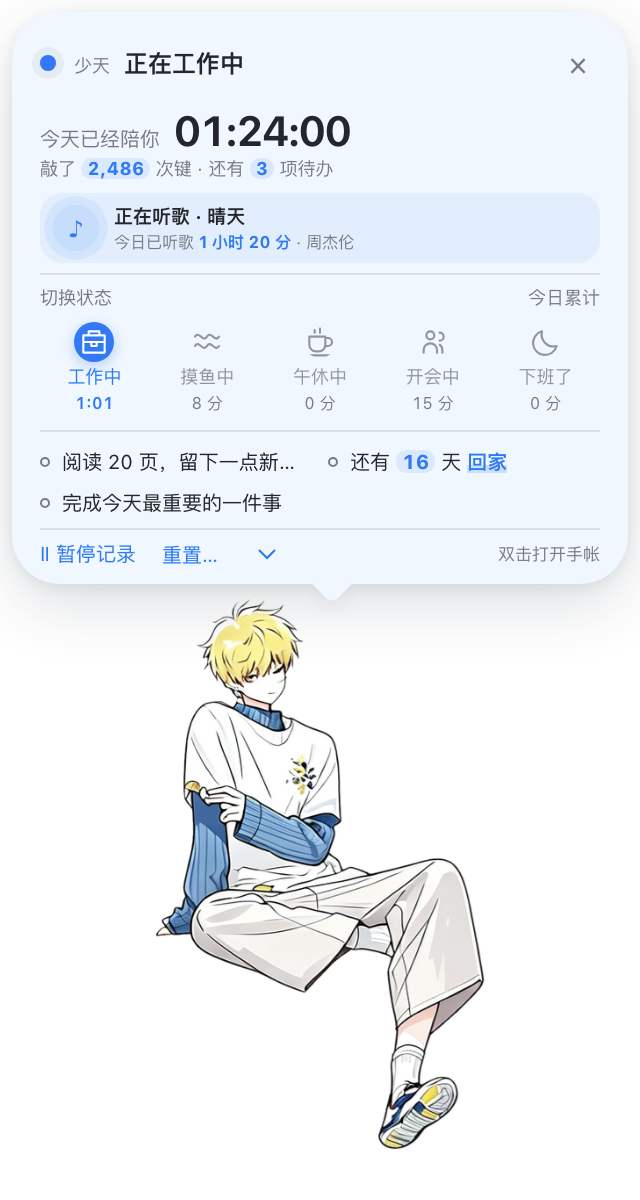
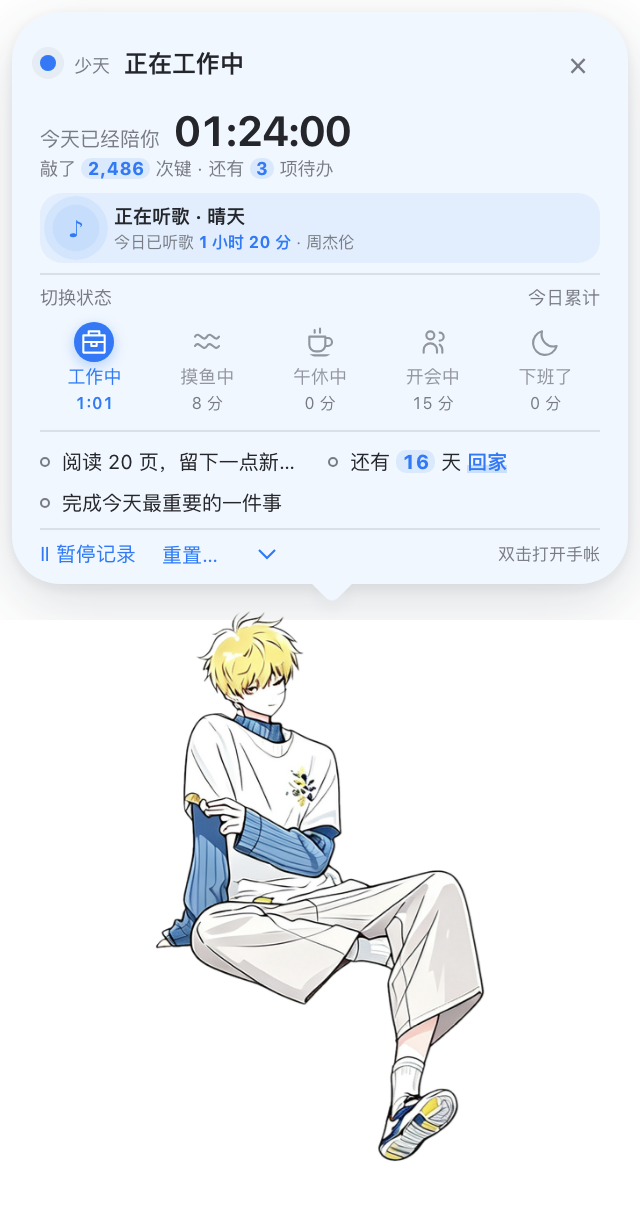
Remove the unused in-window bubble; README hero composed from the real status window

diff --git a/src/main/windows.ts b/src/main/windows.ts
@@ -31,31 +31,14 @@ function scaledSize(scale: number): { width: number; height: number } {
   return { width: Math.round(PET_SIZE.width * scale), height: Math.round(PET_SIZE.height * scale) }
 }
 
-export interface CatLayout {
-  bubbleOpen: boolean
-  petWidth: number
-  petHeight: number
-  petLeft: number
-  petTop: number
-  bubbleLeft: number
-  bubbleTop: number
-  bubbleBelow: boolean
-  tipLeft: number
-  bubbleScale: number
-}
-const catLayouts = new WeakMap<BrowserWindow, CatLayout>()
 type PetVisualBounds={x:number;y:number;width:number;height:number;anchorX:number;anchorY:number}
 const catVisualBounds=new WeakMap<BrowserWindow,PetVisualBounds>()
 export function pointInsideBounds(point:{x:number;y:number},bounds:Electron.Rectangle):boolean{
   return point.x>=bounds.x&&point.x<bounds.x+bounds.width&&point.y>=bounds.y&&point.y<bounds.y+bounds.height
 }
-export function getCatLayout(win: BrowserWindow): CatLayout {
-  return catLayouts.get(win) ?? { bubbleOpen: false, petWidth: win.getBounds().width, petHeight: win.getBounds().height, petLeft: 0, petTop: 0, bubbleLeft: 0, bubbleTop: 0, bubbleBelow: false, tipLeft: 160, bubbleScale: 1 }
-}
+/** The cat window is exactly the pet (the status bubble is its own window). */
 export function getPetBounds(win: BrowserWindow): Electron.Rectangle {
-  const bounds = win.getBounds()
-  const layout = getCatLayout(win)
-  return { x: bounds.x + layout.petLeft, y: bounds.y + layout.petTop, width: layout.petWidth, height: layout.petHeight }
+  return win.getBounds()
 }
 export function setPetVisualBounds(win:BrowserWindow,bounds:{x:number;y:number;width:number;height:number;anchorX?:number;anchorY?:number}):void{
   const pet=getPetBounds(win)
@@ -73,40 +56,6 @@ export function getPetSpeechAnchor(win:BrowserWindow):{x:number;y:number}{
   const pet=getPetBounds(win),visible=catVisualBounds.get(win)
   return visible?{x:pet.x+visible.anchorX,y:pet.y+visible.anchorY}:{x:pet.x+pet.width/2,y:pet.y}
 }
-/** The bubble is part of the pet's transparent window, not a separate popup. */
-export function setCatBubble(win: BrowserWindow, bubbleOpen: boolean, pet = getPetBounds(win)): void {
-  const area = screen.getDisplayMatching(pet).workArea
-  const { singleScale, panelFontScale } = getPanelPreferences()
-  const bubbleWidth = Math.ceil(320 * singleScale)
-  const bubbleHeight = Math.ceil(bubbleBaseHeight(panelFontScale) * singleScale)
-  const bubbleBelow = bubbleOpen && pet.y - bubbleHeight < area.y
-  const bubbleX = Math.max(area.x, Math.min(pet.x + (pet.width - bubbleWidth) / 2, area.x + area.width - bubbleWidth))
-  const bubbleY = bubbleBelow ? pet.y + pet.height : pet.y - bubbleHeight
-  // Union of the fixed pet rectangle and the independently positioned bubble.
-  // Clamping the union would move the pet whenever the bubble meets a screen edge.
-  const x = bubbleOpen ? Math.min(pet.x, bubbleX) : pet.x
-  const y = bubbleOpen ? Math.min(pet.y, bubbleY) : pet.y
-  const width = bubbleOpen ? Math.max(pet.x + pet.width, bubbleX + bubbleWidth) - x : pet.width
-  const height = bubbleOpen ? Math.max(pet.y + pet.height, bubbleY + bubbleHeight) - y : pet.height
-  const layout: CatLayout = {
-    bubbleOpen, petWidth: pet.width, petHeight: pet.height,
-    petLeft: pet.x - x, petTop: pet.y - y,
-    bubbleLeft: bubbleX - x, bubbleTop: bubbleY - y, bubbleBelow,
-    bubbleScale: singleScale,
-    tipLeft: Math.max(24, Math.min(296, (pet.x + pet.width / 2 - bubbleX) / singleScale))
-  }
-  catLayouts.set(win, layout)
-  win.setBounds({ x: Math.round(x), y: Math.round(y), width: Math.ceil(width), height: Math.ceil(height) }, false)
-  // Native window managers can adjust requested bounds; derive offsets from the
-  // actual result so the pet remains at its original desktop coordinates.
-  const actual = win.getBounds()
-  layout.petLeft = pet.x - actual.x
-  layout.petTop = pet.y - actual.y
-  layout.bubbleLeft = bubbleX - actual.x
-  layout.bubbleTop = bubbleY - actual.y
-  win.webContents.send('cat:layout', layout)
-}
-
 export function createCatWindow(scale: number): BrowserWindow {
   const size = scaledSize(scale)
 
@@ -224,8 +173,7 @@ export function positionStatusWindow(win: BrowserWindow, parent: BrowserWindow):
 export function applyCatWindowLayout(catWindow: BrowserWindow, scale: number): void {
   const size = scaledSize(scale)
   const current = getPetBounds(catWindow)
-  const pet = { x: current.x + current.width - size.width, y: current.y + current.height - size.height, ...size }
-  setCatBubble(catWindow, getCatLayout(catWindow).bubbleOpen, pet)
+  catWindow.setBounds({ x: Math.round(current.x + current.width - size.width), y: Math.round(current.y + current.height - size.height), ...size }, false)
 }
 
 function loadRendererRoute(win: BrowserWindow, hash: string): void {

diff --git a/src/renderer/src/CatView.tsx b/src/renderer/src/CatView.tsx
@@ -1,6 +1,5 @@
-import StatusPanel from './StatusPanel'
-import { useEffect, useRef, useState, type CSSProperties } from 'react'
-import type { WorkState, SpriteMap, CatLayout } from '../../preload'
+import { useEffect, useRef, useState } from 'react'
+import type { WorkState, SpriteMap } from '../../preload'
 
 const DEFAULT_IMAGES = Object.fromEntries(['idle', 'sleep'].map(k => [k, `./cat/${k}.svg`]))
 type AlphaMap={width:number;height:number;alpha:Uint8ClampedArray;minX:number;minY:number;maxX:number;maxY:number;topX:number}
@@ -22,7 +21,6 @@ function opaqueAt(img:HTMLImageElement,x:number,y:number):boolean{const box=imag
 
 export default function CatView(): React.JSX.Element {
   const [dragging, setDragging] = useState(false)
-  const [layout, setLayout] = useState<CatLayout | null>(null)
   const [sprites, setSprites] = useState<SpriteMap>({})
   // Unknown during a renderer wake/reload: never flash the focus pose before
   // the persisted selection arrives from the main process.
@@ -34,20 +32,20 @@ export default function CatView(): React.JSX.Element {
   const reportCatShape=()=>{const img=catRef.current,stage=stageRef.current;if(!img||!stage||!img.complete)return;const map=alphaMaps.get(img)??readAlpha(img);if(!map)return;const box=imageContentBox(img),root=stage.getBoundingClientRect(),localLeft=box.left-root.left,localTop=box.top-root.top;window.api.setCatVisualBounds({x:localLeft+map.minX/map.width*box.width,y:localTop+map.minY/map.height*box.height,width:(map.maxX-map.minX+1)/map.width*box.width,height:(map.maxY-map.minY+1)/map.height*box.height,anchorX:localLeft+map.topX/map.width*box.width,anchorY:localTop+map.minY/map.height*box.height})}
 
   useEffect(() => {
-    window.api.getCatLayout().then(setLayout)
     window.api.getSprites().then(setSprites)
     window.api.getWorkState().then(s => setState(s.state))
-    const off = [window.api.onCatLayout(setLayout), window.api.onSpritesUpdated(setSprites), window.api.onWorkStateUpdated(setState)]
+    const off = [window.api.onSpritesUpdated(setSprites), window.api.onWorkStateUpdated(setState)]
     return () => { off.forEach(f => f()); clearTimeout(clickTimer.current) }
   }, [])
-  useEffect(()=>{const frame=requestAnimationFrame(reportCatShape);return()=>cancelAnimationFrame(frame)},[layout?.petWidth,layout?.petHeight,state,sprites])
+  useEffect(()=>{const frame=requestAnimationFrame(reportCatShape);return()=>cancelAnimationFrame(frame)},[state,sprites])
+  // Pet scale changes resize the window: re-measure the visible outline.
+  useEffect(()=>{const onResize=()=>requestAnimationFrame(reportCatShape);window.addEventListener('resize',onResize);return()=>window.removeEventListener('resize',onResize)},[])
   // A state's own image wins; otherwise every state follows the focus (idle)
   // image. With no custom images at all, non-focus states show the sleeping cat.
   const petImage = (current: WorkState | null): string => (current && sprites[`state-${current}`]) ||
     sprites.idle || (current === 'focus' ? DEFAULT_IMAGES.idle : DEFAULT_IMAGES.sleep)
-  return <>
-    {layout?.bubbleOpen && <div className={`pet-bubble-anchor${layout.bubbleBelow ? ' pet-bubble-anchor--below' : ''}`} style={{ left: layout.bubbleLeft, top: layout.bubbleTop ?? 0, transform: `scale(${layout.bubbleScale ?? 1})`, transformOrigin: 'top left', '--bubble-tip-left': `${layout.tipLeft ?? 160}px` } as CSSProperties}><StatusPanel /></div>}
-    <div ref={stageRef} style={layout ? { position: 'absolute', left: layout.petLeft, top: layout.petTop, width: layout.petWidth, height: layout.petHeight } : undefined} className={`scene-stage${dragging ? ' scene-stage--dragging' : ''}`}
+  return (
+    <div ref={stageRef} className={`scene-stage${dragging ? ' scene-stage--dragging' : ''}`}
     title="左右键单击查看状态 · 左键双击打开手帐 · 拖动移动"
     onContextMenu={e => e.preventDefault()}
     onPointerDown={e => {
@@ -85,5 +83,6 @@ export default function CatView(): React.JSX.Element {
       }, 320)
     }}>
     <img ref={catRef} className="cat-sprite" src={petImage(state)} decoding="sync" draggable={false} alt="桌宠" onLoad={e=>{readAlpha(e.currentTarget);requestAnimationFrame(reportCatShape)}} />
-  </div></>
+  </div>
+  )
 }

diff --git a/src/renderer/src/styles.css b/src/renderer/src/styles.css
@@ -1107,7 +1107,7 @@ h1,h2,h3,p {
   flex-shrink:0;
 }
 /* A small speech bubble within the pet window; the tip points at its head. */
-.pet-bubble-anchor { position:absolute; top:0; width:320px; height:306px; padding:6px 6px 14px; }
+
 .pet-bubble-window { width:320px; height:var(--bubble-height, 306px); padding:6px 6px 14px; transform:scale(var(--panel-scale,1)); transform-origin:top left; }
 .pet-bubble-window--below { padding-top:14px; padding-bottom:6px; }
 .pet-bubble-window--below .pet-bubble::after { top:-7px; bottom:auto; transform:rotate(225deg); }
@@ -1147,12 +1147,6 @@ h1,h2,h3,p {
   .pet-bubble::after { background:#27292e; border-color:#ffffff19; }
 }
 
-.pet-bubble-anchor--below { padding-top:14px; padding-bottom:6px; }
-.pet-bubble-anchor--below .pet-bubble::after {
-  top:-7px;
-  bottom:auto;
-  transform:rotate(225deg);
-}
 /* Reminders: colored lists, calendar navigation and dated agenda. */
 .reminders-view { flex:1; min-height:0; overflow-y:auto; padding:16px 20px 22px; }
 .reminders-heading { display:flex; align-items:center; justify-content:space-between; margin-bottom:12px; }
@@ -1203,7 +1197,7 @@ h1,h2,h3,p {
 .list-palette,.list-icons { display:flex; gap:8px; margin-top:10px; }.list-palette button { width:23px; height:23px; border:0; border-radius:50%; color:#fff; padding:0; }.list-icons button { flex:1; min-width:0; border:1px solid var(--line); border-radius:6px; padding:5px 0; background:transparent; color:var(--secondary); }.list-icons button[aria-pressed=true] { color:var(--blue); border-color:var(--blue); }
 
 .cat-sprite { opacity:var(--pet-opacity,1); }
-.pet-bubble-anchor { opacity:var(--panel-opacity,1); }
+
 .settings-section { font-size:11px; color:var(--secondary); margin:0; font-weight:500; }
 .window-settings-panel { gap:13px; }
 .window-settings-panel > * { flex-shrink:0; }

diff --git a/src/preload/index.ts b/src/preload/index.ts
@@ -53,18 +53,6 @@ export interface DiaryEntry {
 export interface UserSpriteItem { id:string;name:string;tags:string[];url:string }
 
 export type ThemeMode = 'system' | 'light' | 'dark'
-export interface CatLayout {
-  bubbleOpen: boolean
-  petWidth: number
-  petHeight: number
-  petLeft: number
-  petTop: number
-  bubbleLeft: number
-  bubbleTop: number
-  bubbleBelow: boolean
-  tipLeft: number
-  bubbleScale: number
-}
 export interface StatusWindowLayout {
   bubbleBelow: boolean
   placement: 'above' | 'below' | 'left' | 'right'
@@ -74,13 +62,7 @@ export interface StatusWindowLayout {
 }
 export interface SpriteVisualBounds { x:number;y:number;width:number;height:number;anchorX?:number;anchorY?:number }
 const api = {
-  getCatLayout(): Promise<CatLayout | null> { return ipcRenderer.invoke('cat:get-layout') },
   closeCatBubble(): void { ipcRenderer.send('cat:close-bubble') },
-  onCatLayout(callback: (layout: CatLayout) => void): () => void {
-    const listener = (_event: unknown, layout: CatLayout): void => callback(layout)
-    ipcRenderer.on('cat:layout', listener)
-    return () => ipcRenderer.removeListener('cat:layout', listener)
-  },
   onStatusLayout(callback: (layout: StatusWindowLayout) => void): () => void {
     const listener = (_event: unknown, layout: StatusWindowLayout): void => callback(layout)
     ipcRenderer.on('status:layout', listener)

diff --git a/src/main/index.ts b/src/main/index.ts
@@ -12,7 +12,6 @@ import {
   createCatWindow,
   createStatusWindow,
   createHubWindow,
-  getCatLayout,
   positionHoverCard,
   positionStatusWindow,
   setPetVisualBounds,
@@ -563,7 +562,6 @@ ipcMain.on('cat:click', () => {
   if (statusWindow && !statusWindow.isDestroyed() && statusWindow.isVisible()) hideHoverCard()
   else { hubWindow?.hide(); showHoverCard() }
 })
-ipcMain.handle('cat:get-layout', () => catWindow ? getCatLayout(catWindow) : null)
 ipcMain.on('cat:close-bubble', () => hideHoverCard())
 ipcMain.on('cat:double-click', () => openHub())
 ipcMain.on('cat:drag', (event, delta: { x: number; y: number }) => {
